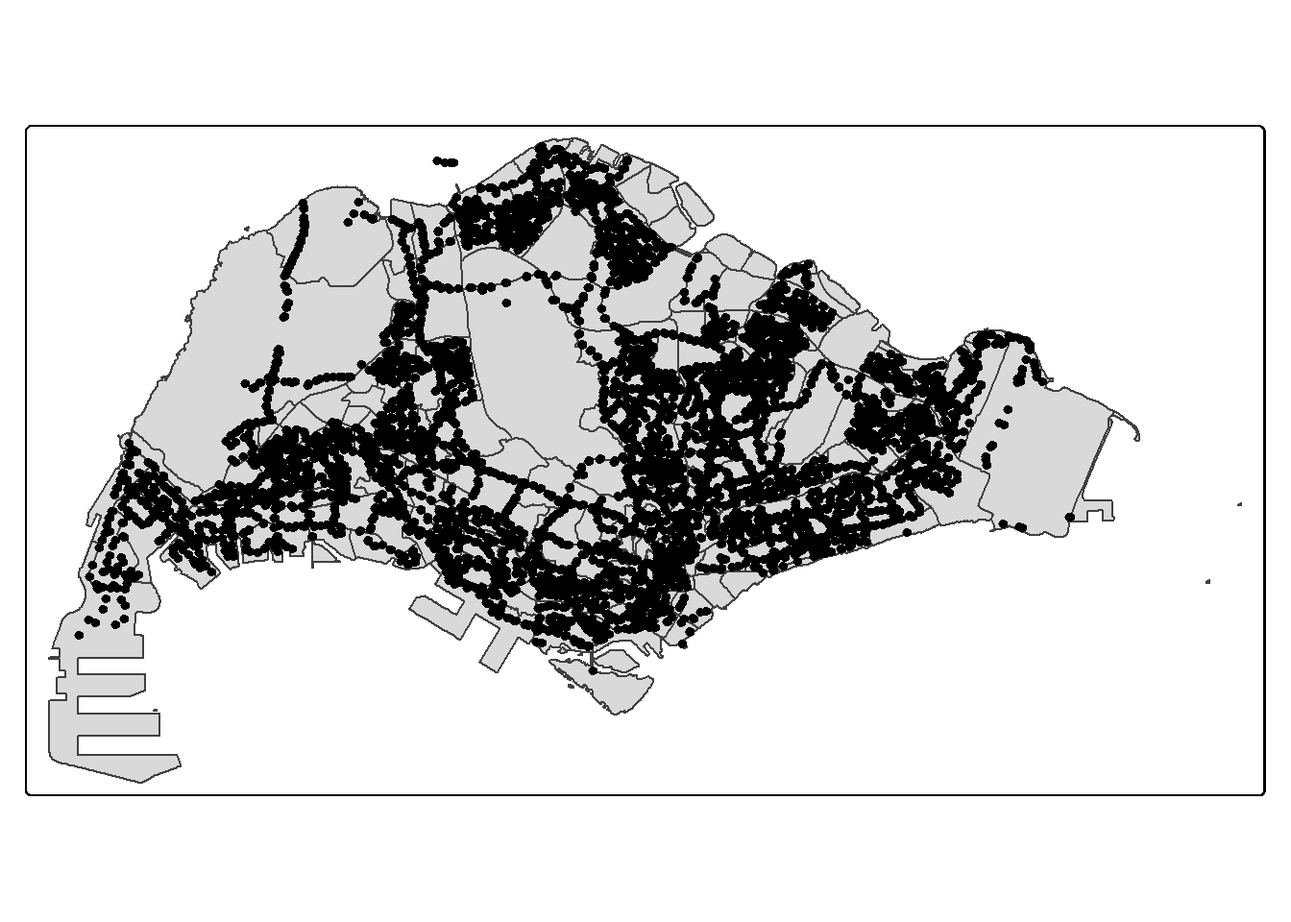
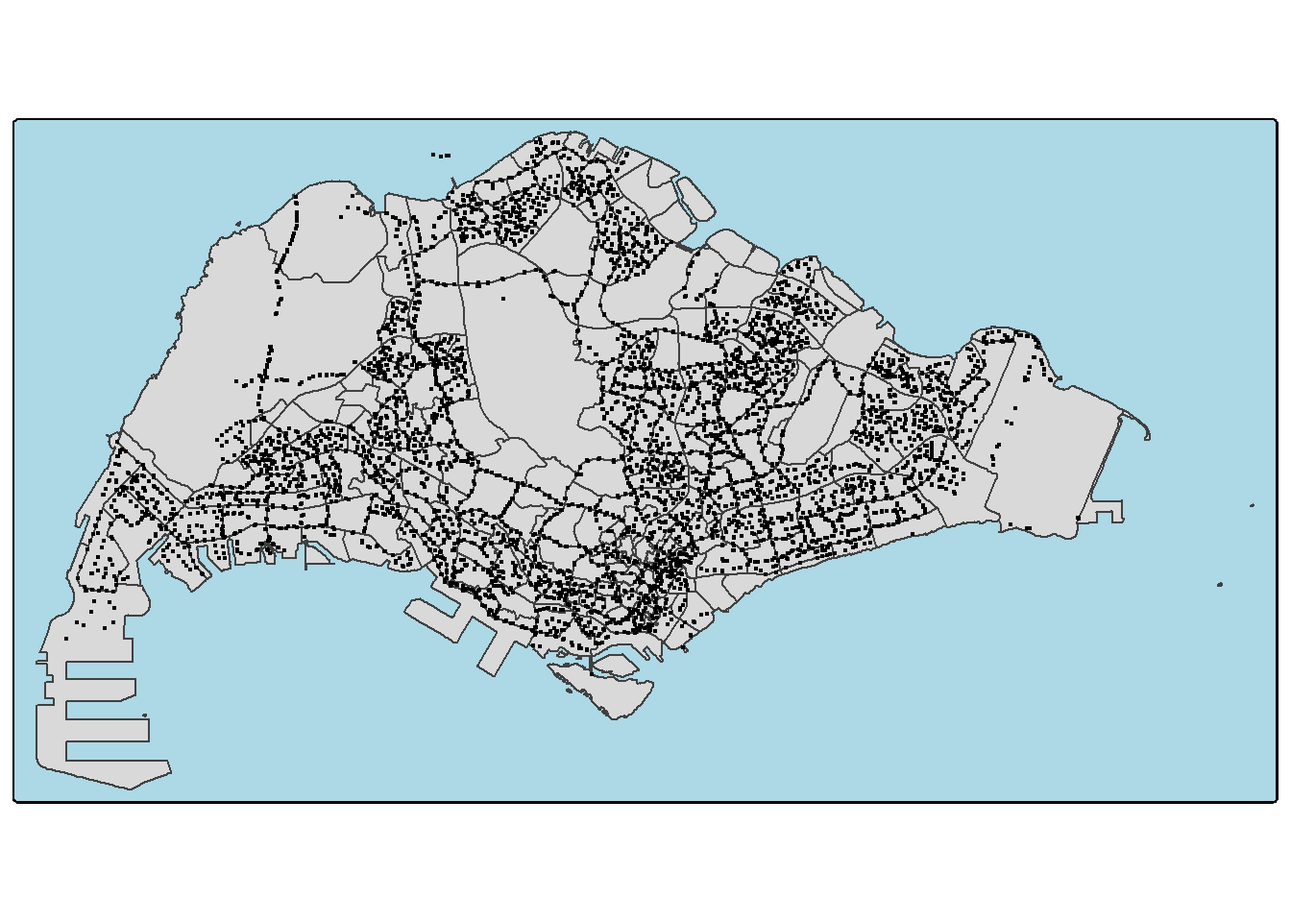
TH 2: Data Prep Hexagon Plot commit

diff --git a/_site/Take_Home_Ex/Take_Home_Ex02/Take_Home_Ex02.html b/_site/Take_Home_Ex/Take_Home_Ex02/Take_Home_Ex02.html
@@ -321,17 +321,58 @@ To examine how these clusters evolve, <strong>Emerging Hot Spot Analysis (EHSA)<
 <h3 data-number="2.1" class="anchored" data-anchor-id="loading-the-r-packages"><span class="header-section-number">2.1</span> 2.1 Loading the R packages</h3>
 <p>The following R packages are used:</p>
 <ul>
-<li><code>spdep</code>: compute spatial weights and global and local spatial autocorrelation statistics</li>
+<li><table class="caption-top table">
+<thead>
+<tr class="header">
+<th>R Package</th>
+<th>Description</th>
+</tr>
+</thead>
+<tbody>
+<tr class="odd">
+<td><strong>sf</strong></td>
+<td>A package that provides <a href="https://en.wikipedia.org/wiki/Simple_Features"><strong>simple features access</strong></a> for R.</td>
+</tr>
+<tr class="even">
+<td><strong>spdep</strong></td>
+<td>Creates spatial weights matrices and to test for and model spatial autocorrelation in geographical data, like Moran’s I and Geary’s C and Local Moran’s I and Getis-Ord G.</td>
+</tr>
+<tr class="odd">
+<td><strong>tidyverse</strong></td>
+<td>Includes the core packages like ggplot2, dplyr, readr, purrr, tibble, lubridate, etc.</td>
+</tr>
+<tr class="even">
+<td><strong>sfdep</strong></td>
+<td>Builds on the great shoulders of <strong>spdep</strong> package for spatial dependence. sfdep creates an sf and tidyverse friendly interface to the package as well as introduces new functionality that is not present in spdep.</td>
+</tr>
+<tr class="odd">
+<td><strong>knitr</strong></td>
+<td>Color maps designed to improve graph readability for readers with common forms of color blindness and/or color vision deficiency.</td>
+</tr>
+<tr class="even">
+<td><strong>tmap</strong></td>
+<td>geographical maps in which spatial data distributions are visualized. This package offers a flexible, layer-based, and easy to use approach to create thematic maps, such as choropleths and bubble maps.</td>
+</tr>
+<tr class="odd">
+<td><strong>rvest</strong></td>
+<td>Provides the HTML parsing and extraction functions</td>
+</tr>
+<tr class="even">
+<td><strong>patchwork</strong></td>
+<td></td>
+</tr>
+</tbody>
+</table></li>
 </ul>
 <div class="cell">
-<div class="sourceCode cell-code" id="cb1"><pre class="sourceCode r code-with-copy"><code class="sourceCode r"><span id="cb1-1"><a href="#cb1-1" aria-hidden="true" tabindex="-1"></a>pacman<span class="sc">::</span><span class="fu">p_load</span>(tidyverse, sf, spdep, tmap, knitr, httr, rvest)</span></code><button title="Copy to Clipboard" class="code-copy-button"><i class="bi"></i></button></pre></div>
+<div class="sourceCode cell-code" id="cb1"><pre class="sourceCode r code-with-copy"><code class="sourceCode r"><span id="cb1-1"><a href="#cb1-1" aria-hidden="true" tabindex="-1"></a>pacman<span class="sc">::</span><span class="fu">p_load</span>(tidyverse, sf, spdep, sfdep, knitr,tmap, rvest, patchwork)</span></code><button title="Copy to Clipboard" class="code-copy-button"><i class="bi"></i></button></pre></div>
 </div>
 </section>
 <section id="importing-data" class="level3" data-number="2.2">
 <h3 data-number="2.2" class="anchored" data-anchor-id="importing-data"><span class="header-section-number">2.2</span> 2.2 Importing Data</h3>
 <section id="bus-stop-location" class="level4" data-number="2.2.1">
 <h4 data-number="2.2.1" class="anchored" data-anchor-id="bus-stop-location"><span class="header-section-number">2.2.1</span> 2.2.1 Bus Stop Location</h4>
-<p>As Bus Stop location data has crs = 9001, we standardise it into crs = 3414.</p>
+<p>We need to transform the data for EPSG:3414 Projected coordinate system for Singapore as bus Stop location data has crs = 9001,</p>
 <div class="cell">
 <div class="sourceCode cell-code" id="cb2"><pre class="sourceCode r code-with-copy"><code class="sourceCode r"><span id="cb2-1"><a href="#cb2-1" aria-hidden="true" tabindex="-1"></a>BusStop <span class="ot">=</span> <span class="fu">st_read</span>(<span class="at">dsn =</span> <span class="st">"data/LTADataMall/"</span>,</span>
 <span id="cb2-2"><a href="#cb2-2" aria-hidden="true" tabindex="-1"></a>                  <span class="at">layer =</span> <span class="st">"BusStop"</span>) <span class="sc">%&gt;%</span></span>
@@ -418,12 +459,16 @@ Geodetic CRS:  WGS 84</code></pre>
 </div>
 <section id="visualise-the-bus-stops" class="level5" data-number="2.2.3.1">
 <h5 data-number="2.2.3.1" class="anchored" data-anchor-id="visualise-the-bus-stops"><span class="header-section-number">2.2.3.1</span> 2.2.3.1 Visualise the Bus Stops</h5>
-<p>We see some bus stops outside the polygons. (Due to the JB border)</p>
 <div class="cell">
-<div class="sourceCode cell-code" id="cb12"><pre class="sourceCode r code-with-copy"><code class="sourceCode r"><span id="cb12-1"><a href="#cb12-1" aria-hidden="true" tabindex="-1"></a><span class="fu">tm_shape</span>(mpsz_cl) <span class="sc">+</span> </span>
-<span id="cb12-2"><a href="#cb12-2" aria-hidden="true" tabindex="-1"></a>  <span class="fu">tm_polygons</span>() <span class="sc">+</span> </span>
-<span id="cb12-3"><a href="#cb12-3" aria-hidden="true" tabindex="-1"></a>  <span class="fu">tm_shape</span>(BusStop) <span class="sc">+</span> </span>
-<span id="cb12-4"><a href="#cb12-4" aria-hidden="true" tabindex="-1"></a>  <span class="fu">tm_dots</span>()</span></code><button title="Copy to Clipboard" class="code-copy-button"><i class="bi"></i></button></pre></div>
+<div class="sourceCode cell-code" id="cb12"><pre class="sourceCode r code-with-copy"><code class="sourceCode r"><span id="cb12-1"><a href="#cb12-1" aria-hidden="true" tabindex="-1"></a><span class="co">#| fig-width: 12</span></span>
+<span id="cb12-2"><a href="#cb12-2" aria-hidden="true" tabindex="-1"></a><span class="co">#| fig-height: 8</span></span>
+<span id="cb12-3"><a href="#cb12-3" aria-hidden="true" tabindex="-1"></a></span>
+<span id="cb12-4"><a href="#cb12-4" aria-hidden="true" tabindex="-1"></a><span class="fu">tm_shape</span>(mpsz_cl) <span class="sc">+</span></span>
+<span id="cb12-5"><a href="#cb12-5" aria-hidden="true" tabindex="-1"></a>  <span class="fu">tm_polygons</span>() <span class="sc">+</span></span>
+<span id="cb12-6"><a href="#cb12-6" aria-hidden="true" tabindex="-1"></a>  <span class="fu">tm_shape</span>(BusStop) <span class="sc">+</span></span>
+<span id="cb12-7"><a href="#cb12-7" aria-hidden="true" tabindex="-1"></a>  <span class="fu">tm_dots</span>(<span class="at">size =</span> <span class="fl">0.15</span>, <span class="at">fill =</span> <span class="st">"black"</span>, <span class="at">col =</span> <span class="st">"grey"</span>) <span class="sc">+</span></span>
+<span id="cb12-8"><a href="#cb12-8" aria-hidden="true" tabindex="-1"></a>  <span class="fu">tm_layout</span>(<span class="at">bg.color =</span> <span class="st">"lightblue"</span>,</span>
+<span id="cb12-9"><a href="#cb12-9" aria-hidden="true" tabindex="-1"></a>            <span class="at">outer.margins =</span> <span class="fu">c</span>(<span class="fl">0.01</span>, <span class="fl">0.01</span>, <span class="fl">0.01</span>, <span class="fl">0.01</span>))</span></code><button title="Copy to Clipboard" class="code-copy-button"><i class="bi"></i></button></pre></div>
 <div class="cell-output-display">
 <div>
 <figure class="figure">
@@ -435,7 +480,7 @@ Geodetic CRS:  WGS 84</code></pre>
 </section>
 <section id="extract-bus-stops-within-singapore" class="level5" data-number="2.2.3.2">
 <h5 data-number="2.2.3.2" class="anchored" data-anchor-id="extract-bus-stops-within-singapore"><span class="header-section-number">2.2.3.2</span> 2.2.3.2 Extract Bus Stops within Singapore</h5>
-<p>We do not use left join as we only want to get bus stops within mpsz.</p>
+<p>Some bus stops are outside the polygons because of JB border and they have to be excluded<strong>.</strong> One way to exclude them is to plot the mpsz layer on top of the BusStop layer.</p>
 <div class="cell">
 <div class="sourceCode cell-code" id="cb13"><pre class="sourceCode r code-with-copy"><code class="sourceCode r"><span id="cb13-1"><a href="#cb13-1" aria-hidden="true" tabindex="-1"></a>BusStop_in_SG <span class="ot">&lt;-</span> <span class="fu">st_join</span>(</span>
 <span id="cb13-2"><a href="#cb13-2" aria-hidden="true" tabindex="-1"></a>  BusStop, mpsz_cl,</span>
@@ -444,14 +489,17 @@ Geodetic CRS:  WGS 84</code></pre>
 </div>
 <p>Plot the bus stop data again to check that the bus stops have been removed.</p>
 <div class="cell">
-<div class="sourceCode cell-code" id="cb14"><pre class="sourceCode r code-with-copy"><code class="sourceCode r"><span id="cb14-1"><a href="#cb14-1" aria-hidden="true" tabindex="-1"></a><span class="fu">tm_shape</span>(mpsz_cl) <span class="sc">+</span> </span>
-<span id="cb14-2"><a href="#cb14-2" aria-hidden="true" tabindex="-1"></a>  <span class="fu">tm_polygons</span>() <span class="sc">+</span> </span>
-<span id="cb14-3"><a href="#cb14-3" aria-hidden="true" tabindex="-1"></a>  <span class="fu">tm_shape</span>(BusStop_in_SG) <span class="sc">+</span> </span>
-<span id="cb14-4"><a href="#cb14-4" aria-hidden="true" tabindex="-1"></a>  <span class="fu">tm_dots</span>()</span></code><button title="Copy to Clipboard" class="code-copy-button"><i class="bi"></i></button></pre></div>
+<div class="sourceCode cell-code" id="cb14"><pre class="sourceCode r code-with-copy"><code class="sourceCode r"><span id="cb14-1"><a href="#cb14-1" aria-hidden="true" tabindex="-1"></a><span class="fu">tm_shape</span>(mpsz_cl) <span class="sc">+</span></span>
+<span id="cb14-2"><a href="#cb14-2" aria-hidden="true" tabindex="-1"></a>  <span class="fu">tm_polygons</span>() <span class="sc">+</span></span>
+<span id="cb14-3"><a href="#cb14-3" aria-hidden="true" tabindex="-1"></a>  <span class="fu">tm_shape</span>(BusStop_in_SG) <span class="sc">+</span></span>
+<span id="cb14-4"><a href="#cb14-4" aria-hidden="true" tabindex="-1"></a>  <span class="fu">tm_dots</span>(<span class="at">size =</span> <span class="fl">0.2</span>, <span class="at">fill =</span> <span class="st">"black"</span>, <span class="at">col =</span> <span class="st">"grey"</span>) <span class="sc">+</span></span>
+<span id="cb14-5"><a href="#cb14-5" aria-hidden="true" tabindex="-1"></a>  <span class="fu">tm_layout</span>(<span class="at">main.title =</span> <span class="st">"Bus Stops Within Singapore Boundaries"</span>,</span>
+<span id="cb14-6"><a href="#cb14-6" aria-hidden="true" tabindex="-1"></a>            <span class="at">bg.color =</span> <span class="st">"lightblue"</span>,</span>
+<span id="cb14-7"><a href="#cb14-7" aria-hidden="true" tabindex="-1"></a>            <span class="at">outer.margins =</span> <span class="fu">c</span>(<span class="fl">0.01</span>, <span class="fl">0.01</span>, <span class="fl">0.01</span>, <span class="fl">0.01</span>))</span></code><button title="Copy to Clipboard" class="code-copy-button"><i class="bi"></i></button></pre></div>
 <div class="cell-output-display">
 <div>
 <figure class="figure">
-<p><img src="Take_Home_Ex02_files/figure-html/unnamed-chunk-12-1.png" class="img-fluid figure-img" width="672"></p>
+<p><img src="Take_Home_Ex02_files/figure-html/unnamed-chunk-12-1.png" class="img-fluid figure-img" width="1152"></p>
 </figure>
 </div>
 </div>
@@ -469,7 +517,7 @@ Geodetic CRS:  WGS 84</code></pre>
 </section>
 <section id="filtering-hexagons-with-bus-stops" class="level5" data-number="2.2.3.4">
 <h5 data-number="2.2.3.4" class="anchored" data-anchor-id="filtering-hexagons-with-bus-stops"><span class="header-section-number">2.2.3.4</span> 2.2.3.4 Filtering hexagons with bus stops</h5>
-<p><code>n_collisions</code> counts the number of bus stops in each hexagon. Only retain hexagons with bus stops.</p>
+<p>To retain hexagons with bus stops. Use <code>st_intersects()</code> to return 2 values: True, False (0 or 1). The hexagon with a bus stop would be 1, and without a bus stop would return 0.</p>
 <div class="cell">
 <div class="sourceCode cell-code" id="cb16"><pre class="sourceCode r code-with-copy"><code class="sourceCode r"><span id="cb16-1"><a href="#cb16-1" aria-hidden="true" tabindex="-1"></a>hexagon<span class="sc">$</span>n_collisions <span class="ot">=</span></span>
 <span id="cb16-2"><a href="#cb16-2" aria-hidden="true" tabindex="-1"></a>  <span class="fu">lengths</span>(<span class="fu">st_intersects</span>(</span>
@@ -477,19 +525,35 @@ Geodetic CRS:  WGS 84</code></pre>
 <span id="cb16-4"><a href="#cb16-4" aria-hidden="true" tabindex="-1"></a></span>
 <span id="cb16-5"><a href="#cb16-5" aria-hidden="true" tabindex="-1"></a>hexagon <span class="ot">&lt;-</span> <span class="fu">filter</span>(hexagon, n_collisions <span class="sc">&gt;</span> <span class="dv">0</span>)</span></code><button title="Copy to Clipboard" class="code-copy-button"><i class="bi"></i></button></pre></div>
 </div>
-</section>
-<section id="assigning-ids-to-each-hexagon" class="level5" data-number="2.2.3.5">
-<h5 data-number="2.2.3.5" class="anchored" data-anchor-id="assigning-ids-to-each-hexagon"><span class="header-section-number">2.2.3.5</span> 2.2.3.5 Assigning ids to each hexagon</h5>
-<p>Create id for each hexagon as previous hexagon table has no id.</p>
 <div class="cell">
-<div class="sourceCode cell-code" id="cb17"><pre class="sourceCode r code-with-copy"><code class="sourceCode r"><span id="cb17-1"><a href="#cb17-1" aria-hidden="true" tabindex="-1"></a>hexagon <span class="ot">&lt;-</span> hexagon <span class="sc">%&gt;%</span></span>
-<span id="cb17-2"><a href="#cb17-2" aria-hidden="true" tabindex="-1"></a>  <span class="fu">select</span>(,<span class="sc">-</span>n_collisions)</span>
-<span id="cb17-3"><a href="#cb17-3" aria-hidden="true" tabindex="-1"></a></span>
-<span id="cb17-4"><a href="#cb17-4" aria-hidden="true" tabindex="-1"></a>hexagon<span class="sc">$</span>HEX_ID <span class="ot">&lt;-</span> <span class="fu">sprintf</span>(</span>
-<span id="cb17-5"><a href="#cb17-5" aria-hidden="true" tabindex="-1"></a>  <span class="st">"H%04d"</span>, <span class="fu">seq_len</span>(<span class="fu">nrow</span>(hexagon))) <span class="sc">%&gt;%</span></span>
-<span id="cb17-6"><a href="#cb17-6" aria-hidden="true" tabindex="-1"></a>  <span class="fu">as.factor</span>()</span>
-<span id="cb17-7"><a href="#cb17-7" aria-hidden="true" tabindex="-1"></a></span>
-<span id="cb17-8"><a href="#cb17-8" aria-hidden="true" tabindex="-1"></a><span class="fu">kable</span>(<span class="fu">head</span>(hexagon))</span></code><button title="Copy to Clipboard" class="code-copy-button"><i class="bi"></i></button></pre></div>
+<div class="sourceCode cell-code" id="cb17"><pre class="sourceCode r code-with-copy"><code class="sourceCode r"><span id="cb17-1"><a href="#cb17-1" aria-hidden="true" tabindex="-1"></a><span class="fu">tm_shape</span>(mpsz_cl) <span class="sc">+</span></span>
+<span id="cb17-2"><a href="#cb17-2" aria-hidden="true" tabindex="-1"></a>  <span class="fu">tm_polygons</span>() <span class="sc">+</span></span>
+<span id="cb17-3"><a href="#cb17-3" aria-hidden="true" tabindex="-1"></a>  <span class="fu">tm_shape</span>(hexagon) <span class="sc">+</span></span>
+<span id="cb17-4"><a href="#cb17-4" aria-hidden="true" tabindex="-1"></a>  <span class="fu">tm_fill</span>(<span class="at">col =</span> <span class="st">"grey20"</span>, <span class="at">fill =</span> <span class="st">"orange"</span>, <span class="at">fill_alpha =</span> <span class="fl">0.7</span>) <span class="sc">+</span></span>
+<span id="cb17-5"><a href="#cb17-5" aria-hidden="true" tabindex="-1"></a>  <span class="fu">tm_layout</span>(<span class="at">bg.color =</span> <span class="st">"lightblue"</span>,</span>
+<span id="cb17-6"><a href="#cb17-6" aria-hidden="true" tabindex="-1"></a>            <span class="at">outer.margins =</span> <span class="fu">c</span>(<span class="fl">0.01</span>, <span class="fl">0.01</span>, <span class="fl">0.01</span>, <span class="fl">0.01</span>))</span></code><button title="Copy to Clipboard" class="code-copy-button"><i class="bi"></i></button></pre></div>
+<div class="cell-output-display">
+<div>
+<figure class="figure">
+<p><img src="Take_Home_Ex02_files/figure-html/unnamed-chunk-15-1.png" class="img-fluid figure-img" width="1152"></p>
+</figure>
+</div>
+</div>
+</div>
+<p>The hexagon map shows where bus stops are found across Singapore. Each colored hexagon marks an area with at least one bus stop, making it easy to see that most bus stops are located in built-up towns and along main roads. Many other parts of Singapore, especially less developed areas, don’t have direct bus service. This map gives us a clear base to group and analyze passenger numbers later. Since the hexagons don’t have names or numbers, we’ll give each one an <strong>ID</strong> so we can keep track of them more easily.</p>
+</section>
+<section id="assigning-id-to-each-hexagon" class="level5" data-number="2.2.3.5">
+<h5 data-number="2.2.3.5" class="anchored" data-anchor-id="assigning-id-to-each-hexagon"><span class="header-section-number">2.2.3.5</span> 2.2.3.5 Assigning ID to each hexagon</h5>
+<p>In order to know the trips occurred in each hexagon in certain time periods, we need to give each hexagon an ID.</p>
+<div class="cell">
+<div class="sourceCode cell-code" id="cb18"><pre class="sourceCode r code-with-copy"><code class="sourceCode r"><span id="cb18-1"><a href="#cb18-1" aria-hidden="true" tabindex="-1"></a>hexagon <span class="ot">&lt;-</span> hexagon <span class="sc">%&gt;%</span></span>
+<span id="cb18-2"><a href="#cb18-2" aria-hidden="true" tabindex="-1"></a>  <span class="fu">select</span>(,<span class="sc">-</span>n_collisions)</span>
+<span id="cb18-3"><a href="#cb18-3" aria-hidden="true" tabindex="-1"></a></span>
+<span id="cb18-4"><a href="#cb18-4" aria-hidden="true" tabindex="-1"></a>hexagon<span class="sc">$</span>HEX_ID <span class="ot">&lt;-</span> <span class="fu">sprintf</span>(</span>
+<span id="cb18-5"><a href="#cb18-5" aria-hidden="true" tabindex="-1"></a>  <span class="st">"H%04d"</span>, <span class="fu">seq_len</span>(<span class="fu">nrow</span>(hexagon))) <span class="sc">%&gt;%</span></span>
+<span id="cb18-6"><a href="#cb18-6" aria-hidden="true" tabindex="-1"></a>  <span class="fu">as.factor</span>()</span>
+<span id="cb18-7"><a href="#cb18-7" aria-hidden="true" tabindex="-1"></a></span>
+<span id="cb18-8"><a href="#cb18-8" aria-hidden="true" tabindex="-1"></a><span class="fu">kable</span>(<span class="fu">head</span>(hexagon))</span></code><button title="Copy to Clipboard" class="code-copy-button"><i class="bi"></i></button></pre></div>
 <div class="cell-output-display">
 <table class="caption-top table table-sm table-striped small">
 <thead>
@@ -534,15 +598,15 @@ Geodetic CRS:  WGS 84</code></pre>
 <p>We are only interested in ORIGIN_PT_CODE (trip origin).</p>
 <section id="cleaning-the-data" class="level5" data-number="2.2.4.1">
 <h5 data-number="2.2.4.1" class="anchored" data-anchor-id="cleaning-the-data"><span class="header-section-number">2.2.4.1</span> 2.2.4.1 Cleaning the data</h5>
-<p>Unnecessary columns are removed</p>
+<p>Only necessary columns are selected.</p>
 <div class="cell">
-<div class="sourceCode cell-code" id="cb18"><pre class="sourceCode r code-with-copy"><code class="sourceCode r"><span id="cb18-1"><a href="#cb18-1" aria-hidden="true" tabindex="-1"></a>trips <span class="ot">&lt;-</span> odbus <span class="sc">%&gt;%</span></span>
-<span id="cb18-2"><a href="#cb18-2" aria-hidden="true" tabindex="-1"></a>  <span class="fu">select</span>(<span class="fu">c</span>(ORIGIN_PT_CODE, DAY_TYPE, TIME_PER_HOUR, TOTAL_TRIPS)) <span class="sc">%&gt;%</span></span>
-<span id="cb18-3"><a href="#cb18-3" aria-hidden="true" tabindex="-1"></a>  <span class="fu">rename</span>(<span class="at">BUS_STOP_N =</span> ORIGIN_PT_CODE) <span class="sc">%&gt;%</span></span>
-<span id="cb18-4"><a href="#cb18-4" aria-hidden="true" tabindex="-1"></a>  <span class="fu">rename</span>(<span class="at">HOUR_OF_DAY =</span> TIME_PER_HOUR) <span class="sc">%&gt;%</span></span>
-<span id="cb18-5"><a href="#cb18-5" aria-hidden="true" tabindex="-1"></a>  <span class="fu">rename</span>(<span class="at">TRIPS =</span> TOTAL_TRIPS)</span>
-<span id="cb18-6"><a href="#cb18-6" aria-hidden="true" tabindex="-1"></a>trips<span class="sc">$</span>BUS_STOP_N <span class="ot">&lt;-</span> <span class="fu">as.factor</span>(trips<span class="sc">$</span>BUS_STOP_N)</span>
-<span id="cb18-7"><a href="#cb18-7" aria-hidden="true" tabindex="-1"></a><span class="fu">kable</span>(<span class="fu">head</span>(trips))</span></code><button title="Copy to Clipboard" class="code-copy-button"><i class="bi"></i></button></pre></div>
+<div class="sourceCode cell-code" id="cb19"><pre class="sourceCode r code-with-copy"><code class="sourceCode r"><span id="cb19-1"><a href="#cb19-1" aria-hidden="true" tabindex="-1"></a>trips <span class="ot">&lt;-</span> odbus <span class="sc">%&gt;%</span></span>
+<span id="cb19-2"><a href="#cb19-2" aria-hidden="true" tabindex="-1"></a>  <span class="fu">select</span>(<span class="fu">c</span>(ORIGIN_PT_CODE, DAY_TYPE, TIME_PER_HOUR, TOTAL_TRIPS)) <span class="sc">%&gt;%</span></span>
+<span id="cb19-3"><a href="#cb19-3" aria-hidden="true" tabindex="-1"></a>  <span class="fu">rename</span>(<span class="at">BUS_STOP_N =</span> ORIGIN_PT_CODE) <span class="sc">%&gt;%</span></span>
+<span id="cb19-4"><a href="#cb19-4" aria-hidden="true" tabindex="-1"></a>  <span class="fu">rename</span>(<span class="at">HOUR_OF_DAY =</span> TIME_PER_HOUR) <span class="sc">%&gt;%</span></span>
+<span id="cb19-5"><a href="#cb19-5" aria-hidden="true" tabindex="-1"></a>  <span class="fu">rename</span>(<span class="at">TRIPS =</span> TOTAL_TRIPS)</span>
+<span id="cb19-6"><a href="#cb19-6" aria-hidden="true" tabindex="-1"></a>trips<span class="sc">$</span>BUS_STOP_N <span class="ot">&lt;-</span> <span class="fu">as.factor</span>(trips<span class="sc">$</span>BUS_STOP_N)</span>
+<span id="cb19-7"><a href="#cb19-7" aria-hidden="true" tabindex="-1"></a><span class="fu">kable</span>(<span class="fu">head</span>(trips))</span></code><button title="Copy to Clipboard" class="code-copy-button"><i class="bi"></i></button></pre></div>
 <div class="cell-output-display">
 <table class="caption-top table table-sm table-striped small">
 <thead>
@@ -598,11 +662,11 @@ Geodetic CRS:  WGS 84</code></pre>
 <section id="combining-bus-stop-and-hexagon-layers" class="level5" data-number="2.2.4.2">
 <h5 data-number="2.2.4.2" class="anchored" data-anchor-id="combining-bus-stop-and-hexagon-layers"><span class="header-section-number">2.2.4.2</span> 2.2.4.2 Combining bus stop and hexagon layers</h5>
 <div class="cell">
-<div class="sourceCode cell-code" id="cb19"><pre class="sourceCode r code-with-copy"><code class="sourceCode r"><span id="cb19-1"><a href="#cb19-1" aria-hidden="true" tabindex="-1"></a>bs_hex <span class="ot">&lt;-</span><span class="fu">st_intersection</span>(</span>
-<span id="cb19-2"><a href="#cb19-2" aria-hidden="true" tabindex="-1"></a>  BusStop, hexagon) <span class="sc">%&gt;%</span></span>
-<span id="cb19-3"><a href="#cb19-3" aria-hidden="true" tabindex="-1"></a>  <span class="fu">st_drop_geometry</span>() <span class="sc">%&gt;%</span></span>
-<span id="cb19-4"><a href="#cb19-4" aria-hidden="true" tabindex="-1"></a>  <span class="fu">select</span>(<span class="fu">c</span>(BUS_STOP_N, HEX_ID))</span>
-<span id="cb19-5"><a href="#cb19-5" aria-hidden="true" tabindex="-1"></a><span class="fu">kable</span>(<span class="fu">head</span>(bs_hex))</span></code><button title="Copy to Clipboard" class="code-copy-button"><i class="bi"></i></button></pre></div>
+<div class="sourceCode cell-code" id="cb20"><pre class="sourceCode r code-with-copy"><code class="sourceCode r"><span id="cb20-1"><a href="#cb20-1" aria-hidden="true" tabindex="-1"></a>bs_hex <span class="ot">&lt;-</span><span class="fu">st_intersection</span>(</span>
+<span id="cb20-2"><a href="#cb20-2" aria-hidden="true" tabindex="-1"></a>  BusStop, hexagon) <span class="sc">%&gt;%</span></span>
+<span id="cb20-3"><a href="#cb20-3" aria-hidden="true" tabindex="-1"></a>  <span class="fu">st_drop_geometry</span>() <span class="sc">%&gt;%</span></span>
+<span id="cb20-4"><a href="#cb20-4" aria-hidden="true" tabindex="-1"></a>  <span class="fu">select</span>(<span class="fu">c</span>(BUS_STOP_N, HEX_ID))</span>
+<span id="cb20-5"><a href="#cb20-5" aria-hidden="true" tabindex="-1"></a><span class="fu">kable</span>(<span class="fu">head</span>(bs_hex))</span></code><button title="Copy to Clipboard" class="code-copy-button"><i class="bi"></i></button></pre></div>
 <div class="cell-output-display">
 <table class="caption-top table table-sm table-striped small">
 <thead>
@@ -651,8 +715,8 @@ Geodetic CRS:  WGS 84</code></pre>
 <section id="adding-hex_id-into-bus-trips-data" class="level5" data-number="2.2.4.3">
 <h5 data-number="2.2.4.3" class="anchored" data-anchor-id="adding-hex_id-into-bus-trips-data"><span class="header-section-number">2.2.4.3</span> 2.2.4.3 Adding Hex_ID into bus trips data</h5>
 <div class="cell">
-<div class="sourceCode cell-code" id="cb20"><pre class="sourceCode r code-with-copy"><code class="sourceCode r"><span id="cb20-1"><a href="#cb20-1" aria-hidden="true" tabindex="-1"></a>trips <span class="ot">&lt;-</span> <span class="fu">inner_join</span>(trips, bs_hex)</span>
-<span id="cb20-2"><a href="#cb20-2" aria-hidden="true" tabindex="-1"></a><span class="fu">kable</span>(<span class="fu">head</span>(trips))</span></code><button title="Copy to Clipboard" class="code-copy-button"><i class="bi"></i></button></pre></div>
+<div class="sourceCode cell-code" id="cb21"><pre class="sourceCode r code-with-copy"><code class="sourceCode r"><span id="cb21-1"><a href="#cb21-1" aria-hidden="true" tabindex="-1"></a>trips <span class="ot">&lt;-</span> <span class="fu">inner_join</span>(trips, bs_hex)</span>
+<span id="cb21-2"><a href="#cb21-2" aria-hidden="true" tabindex="-1"></a><span class="fu">kable</span>(<span class="fu">head</span>(trips))</span></code><button title="Copy to Clipboard" class="code-copy-button"><i class="bi"></i></button></pre></div>
 <div class="cell-output-display">
 <table class="caption-top table table-sm table-striped small">
 <thead>
@@ -711,6 +775,23 @@ Geodetic CRS:  WGS 84</code></pre>
 </table>
 </div>
 </div>
+<div class="cell">
+<div class="sourceCode cell-code" id="cb22"><pre class="sourceCode r code-with-copy"><code class="sourceCode r"><span id="cb22-1"><a href="#cb22-1" aria-hidden="true" tabindex="-1"></a>trips_sort <span class="ot">&lt;-</span> trips <span class="sc">%&gt;%</span></span>
+<span id="cb22-2"><a href="#cb22-2" aria-hidden="true" tabindex="-1"></a>  <span class="fu">arrange</span>(<span class="fu">desc</span>(TRIPS)) <span class="sc">%&gt;%</span></span>
+<span id="cb22-3"><a href="#cb22-3" aria-hidden="true" tabindex="-1"></a>  <span class="fu">mutate</span>(<span class="at">HEX_ID =</span> <span class="fu">factor</span>(HEX_ID, <span class="at">levels =</span> <span class="fu">unique</span>(HEX_ID)))</span></code><button title="Copy to Clipboard" class="code-copy-button"><i class="bi"></i></button></pre></div>
+</div>
+<div class="cell">
+<div class="sourceCode cell-code" id="cb23"><pre class="sourceCode r code-with-copy"><code class="sourceCode r"><span id="cb23-1"><a href="#cb23-1" aria-hidden="true" tabindex="-1"></a><span class="fu">glimpse</span>(trips_sort)</span></code><button title="Copy to Clipboard" class="code-copy-button"><i class="bi"></i></button></pre></div>
+<div class="cell-output cell-output-stdout">
+<pre><code>Rows: 1,036,149
+Columns: 5
+$ BUS_STOP_N  &lt;chr&gt; "46101", "46101", "46101", "46101", "46101", "46101", "461…
+$ DAY_TYPE    &lt;chr&gt; "WEEKDAY", "WEEKDAY", "WEEKDAY", "WEEKDAY", "WEEKENDS/HOLI…
+$ HOUR_OF_DAY &lt;dbl&gt; 21, 19, 13, 15, 8, 11, 22, 7, 17, 19, 19, 8, 7, 17, 21, 21…
+$ TRIPS       &lt;dbl&gt; 27587, 24640, 23604, 22826, 17668, 17605, 12531, 12014, 10…
+$ HEX_ID      &lt;fct&gt; H0263, H0263, H0263, H0263, H0263, H0263, H0263, H0263, H0…</code></pre>
+</div>
+</div>
 </section>
 </section>
 <section id="create-total-trips-per-hexagon-dataset" class="level4" data-number="2.2.5">
@@ -720,12 +801,12 @@ Geodetic CRS:  WGS 84</code></pre>
 <h5 data-number="2.2.5.1" class="anchored" data-anchor-id="aggregate-trip-data-by-hexagon"><span class="header-section-number">2.2.5.1</span> 2.2.5.1 Aggregate Trip Data by Hexagon</h5>
 <p>Within <em>trips</em> dataset, we calculate the total TRIPS per hexagon (“HEX_ID”).</p>
 <div class="cell">
-<div class="sourceCode cell-code" id="cb21"><pre class="sourceCode r code-with-copy"><code class="sourceCode r"><span id="cb21-1"><a href="#cb21-1" aria-hidden="true" tabindex="-1"></a>trips_agg <span class="ot">&lt;-</span> trips <span class="sc">%&gt;%</span></span>
-<span id="cb21-2"><a href="#cb21-2" aria-hidden="true" tabindex="-1"></a>  <span class="fu">group_by</span>(HEX_ID) <span class="sc">%&gt;%</span></span>
-<span id="cb21-3"><a href="#cb21-3" aria-hidden="true" tabindex="-1"></a>  <span class="fu">summarise</span>(<span class="at">total_trips =</span> <span class="fu">sum</span>(TRIPS, <span class="at">na.rm =</span> <span class="cn">TRUE</span>),</span>
-<span id="cb21-4"><a href="#cb21-4" aria-hidden="true" tabindex="-1"></a>            <span class="at">.groups =</span> <span class="st">'drop'</span>)</span>
-<span id="cb21-5"><a href="#cb21-5" aria-hidden="true" tabindex="-1"></a></span>
-<span id="cb21-6"><a href="#cb21-6" aria-hidden="true" tabindex="-1"></a><span class="fu">kable</span>(<span class="fu">head</span>(trips_agg))</span></code><button title="Copy to Clipboard" class="code-copy-button"><i class="bi"></i></button></pre></div>
+<div class="sourceCode cell-code" id="cb25"><pre class="sourceCode r code-with-copy"><code class="sourceCode r"><span id="cb25-1"><a href="#cb25-1" aria-hidden="true" tabindex="-1"></a>trips_agg <span class="ot">&lt;-</span> trips <span class="sc">%&gt;%</span></span>
+<span id="cb25-2"><a href="#cb25-2" aria-hidden="true" tabindex="-1"></a>  <span class="fu">group_by</span>(HEX_ID) <span class="sc">%&gt;%</span></span>
+<span id="cb25-3"><a href="#cb25-3" aria-hidden="true" tabindex="-1"></a>  <span class="fu">summarise</span>(<span class="at">total_trips =</span> <span class="fu">sum</span>(TRIPS, <span class="at">na.rm =</span> <span class="cn">TRUE</span>),</span>
+<span id="cb25-4"><a href="#cb25-4" aria-hidden="true" tabindex="-1"></a>            <span class="at">.groups =</span> <span class="st">'drop'</span>)</span>
+<span id="cb25-5"><a href="#cb25-5" aria-hidden="true" tabindex="-1"></a></span>
+<span id="cb25-6"><a href="#cb25-6" aria-hidden="true" tabindex="-1"></a><span class="fu">kable</span>(<span class="fu">head</span>(trips_agg))</span></code><button title="Copy to Clipboard" class="code-copy-button"><i class="bi"></i></button></pre></div>
 <div class="cell-output-display">
 <table class="caption-top table table-sm table-striped small">
 <thead>
@@ -768,11 +849,11 @@ Geodetic CRS:  WGS 84</code></pre>
 <h5 data-number="2.2.5.2" class="anchored" data-anchor-id="relational-join"><span class="header-section-number">2.2.5.2</span> 2.2.5.2 Relational Join</h5>
 <p>Join <em>trips_agg</em> with <em>hexagon</em> on “HEX_ID”.</p>
 <div class="cell">
-<div class="sourceCode cell-code" id="cb22"><pre class="sourceCode r code-with-copy"><code class="sourceCode r"><span id="cb22-1"><a href="#cb22-1" aria-hidden="true" tabindex="-1"></a>hexagon_trips <span class="ot">&lt;-</span> hexagon <span class="sc">%&gt;%</span></span>
-<span id="cb22-2"><a href="#cb22-2" aria-hidden="true" tabindex="-1"></a>  <span class="fu">inner_join</span>(trips_agg, <span class="at">by =</span> <span class="st">"HEX_ID"</span>) <span class="sc">%&gt;%</span></span>
-<span id="cb22-3"><a href="#cb22-3" aria-hidden="true" tabindex="-1"></a>  <span class="fu">mutate</span>(<span class="at">total_trips =</span> <span class="fu">replace_na</span>(total_trips, <span class="dv">0</span>))</span>
-<span id="cb22-4"><a href="#cb22-4" aria-hidden="true" tabindex="-1"></a></span>
-<span id="cb22-5"><a href="#cb22-5" aria-hidden="true" tabindex="-1"></a><span class="fu">kable</span>(<span class="fu">head</span>(hexagon_trips))</span></code><button title="Copy to Clipboard" class="code-copy-button"><i class="bi"></i></button></pre></div>
+<div class="sourceCode cell-code" id="cb26"><pre class="sourceCode r code-with-copy"><code class="sourceCode r"><span id="cb26-1"><a href="#cb26-1" aria-hidden="true" tabindex="-1"></a>hexagon_trips <span class="ot">&lt;-</span> hexagon <span class="sc">%&gt;%</span></span>
+<span id="cb26-2"><a href="#cb26-2" aria-hidden="true" tabindex="-1"></a>  <span class="fu">inner_join</span>(trips_agg, <span class="at">by =</span> <span class="st">"HEX_ID"</span>) <span class="sc">%&gt;%</span></span>
+<span id="cb26-3"><a href="#cb26-3" aria-hidden="true" tabindex="-1"></a>  <span class="fu">mutate</span>(<span class="at">total_trips =</span> <span class="fu">replace_na</span>(total_trips, <span class="dv">0</span>))</span>
+<span id="cb26-4"><a href="#cb26-4" aria-hidden="true" tabindex="-1"></a></span>
+<span id="cb26-5"><a href="#cb26-5" aria-hidden="true" tabindex="-1"></a><span class="fu">kable</span>(<span class="fu">head</span>(hexagon_trips))</span></code><button title="Copy to Clipboard" class="code-copy-button"><i class="bi"></i></button></pre></div>
 <div class="cell-output-display">
 <table class="caption-top table table-sm table-striped small">
 <thead>
@@ -826,12 +907,12 @@ Geodetic CRS:  WGS 84</code></pre>
 <h5 data-number="2.2.6.1" class="anchored" data-anchor-id="aggregate-trip-data-by-hexagon-1"><span class="header-section-number">2.2.6.1</span> 2.2.5.1 Aggregate Trip Data by Hexagon</h5>
 <p>Within <em>trips</em> dataset, we calculate the total TRIPS per hexagon (“HEX_ID”).</p>
 <div class="cell">
-<div class="sourceCode cell-code" id="cb23"><pre class="sourceCode r code-with-copy"><code class="sourceCode r"><span id="cb23-1"><a href="#cb23-1" aria-hidden="true" tabindex="-1"></a>trips_agg <span class="ot">&lt;-</span> trips <span class="sc">%&gt;%</span></span>
-<span id="cb23-2"><a href="#cb23-2" aria-hidden="true" tabindex="-1"></a>  <span class="fu">group_by</span>(HEX_ID) <span class="sc">%&gt;%</span></span>
-<span id="cb23-3"><a href="#cb23-3" aria-hidden="true" tabindex="-1"></a>  <span class="fu">summarise</span>(<span class="at">total_trips =</span> <span class="fu">sum</span>(TRIPS, <span class="at">na.rm =</span> <span class="cn">TRUE</span>),</span>
-<span id="cb23-4"><a href="#cb23-4" aria-hidden="true" tabindex="-1"></a>            <span class="at">.groups =</span> <span class="st">'drop'</span>)</span>
-<span id="cb23-5"><a href="#cb23-5" aria-hidden="true" tabindex="-1"></a></span>
-<span id="cb23-6"><a href="#cb23-6" aria-hidden="true" tabindex="-1"></a><span class="fu">kable</span>(<span class="fu">head</span>(trips_agg))</span></code><button title="Copy to Clipboard" class="code-copy-button"><i class="bi"></i></button></pre></div>
+<div class="sourceCode cell-code" id="cb27"><pre class="sourceCode r code-with-copy"><code class="sourceCode r"><span id="cb27-1"><a href="#cb27-1" aria-hidden="true" tabindex="-1"></a>trips_agg <span class="ot">&lt;-</span> trips <span class="sc">%&gt;%</span></span>
+<span id="cb27-2"><a href="#cb27-2" aria-hidden="true" tabindex="-1"></a>  <span class="fu">group_by</span>(HEX_ID) <span class="sc">%&gt;%</span></span>
+<span id="cb27-3"><a href="#cb27-3" aria-hidden="true" tabindex="-1"></a>  <span class="fu">summarise</span>(<span class="at">total_trips =</span> <span class="fu">sum</span>(TRIPS, <span class="at">na.rm =</span> <span class="cn">TRUE</span>),</span>
+<span id="cb27-4"><a href="#cb27-4" aria-hidden="true" tabindex="-1"></a>            <span class="at">.groups =</span> <span class="st">'drop'</span>)</span>
+<span id="cb27-5"><a href="#cb27-5" aria-hidden="true" tabindex="-1"></a></span>
+<span id="cb27-6"><a href="#cb27-6" aria-hidden="true" tabindex="-1"></a><span class="fu">kable</span>(<span class="fu">head</span>(trips_agg))</span></code><button title="Copy to Clipboard" class="code-copy-button"><i class="bi"></i></button></pre></div>
 <div class="cell-output-display">
 <table class="caption-top table table-sm table-striped small">
 <thead>
@@ -874,11 +955,11 @@ Geodetic CRS:  WGS 84</code></pre>
 <h5 data-number="2.2.6.2" class="anchored" data-anchor-id="relational-join-1"><span class="header-section-number">2.2.6.2</span> 2.2.5.2 Relational Join</h5>
 <p>Join <em>trips_agg</em> with <em>hexagon</em> on “HEX_ID”.</p>
 <div class="cell">
-<div class="sourceCode cell-code" id="cb24"><pre class="sourceCode r code-with-copy"><code class="sourceCode r"><span id="cb24-1"><a href="#cb24-1" aria-hidden="true" tabindex="-1"></a>hexagon_trips <span class="ot">&lt;-</span> hexagon <span class="sc">%&gt;%</span></span>
-<span id="cb24-2"><a href="#cb24-2" aria-hidden="true" tabindex="-1"></a>  <span class="fu">inner_join</span>(trips_agg, <span class="at">by =</span> <span class="st">"HEX_ID"</span>) <span class="sc">%&gt;%</span></span>
-<span id="cb24-3"><a href="#cb24-3" aria-hidden="true" tabindex="-1"></a>  <span class="fu">mutate</span>(<span class="at">total_trips =</span> <span class="fu">replace_na</span>(total_trips, <span class="dv">0</span>))</span>
-<span id="cb24-4"><a href="#cb24-4" aria-hidden="true" tabindex="-1"></a></span>
-<span id="cb24-5"><a href="#cb24-5" aria-hidden="true" tabindex="-1"></a><span class="fu">kable</span>(<span class="fu">head</span>(hexagon_trips))</span></code><button title="Copy to Clipboard" class="code-copy-button"><i class="bi"></i></button></pre></div>
+<div class="sourceCode cell-code" id="cb28"><pre class="sourceCode r code-with-copy"><code class="sourceCode r"><span id="cb28-1"><a href="#cb28-1" aria-hidden="true" tabindex="-1"></a>hexagon_trips <span class="ot">&lt;-</span> hexagon <span class="sc">%&gt;%</span></span>
+<span id="cb28-2"><a href="#cb28-2" aria-hidden="true" tabindex="-1"></a>  <span class="fu">inner_join</span>(trips_agg, <span class="at">by =</span> <span class="st">"HEX_ID"</span>) <span class="sc">%&gt;%</span></span>
+<span id="cb28-3"><a href="#cb28-3" aria-hidden="true" tabindex="-1"></a>  <span class="fu">mutate</span>(<span class="at">total_trips =</span> <span class="fu">replace_na</span>(total_trips, <span class="dv">0</span>))</span>
+<span id="cb28-4"><a href="#cb28-4" aria-hidden="true" tabindex="-1"></a></span>
+<span id="cb28-5"><a href="#cb28-5" aria-hidden="true" tabindex="-1"></a><span class="fu">kable</span>(<span class="fu">head</span>(hexagon_trips))</span></code><button title="Copy to Clipboard" class="code-copy-button"><i class="bi"></i></button></pre></div>
 <div class="cell-output-display">
 <table class="caption-top table table-sm table-striped small">
 <thead>
